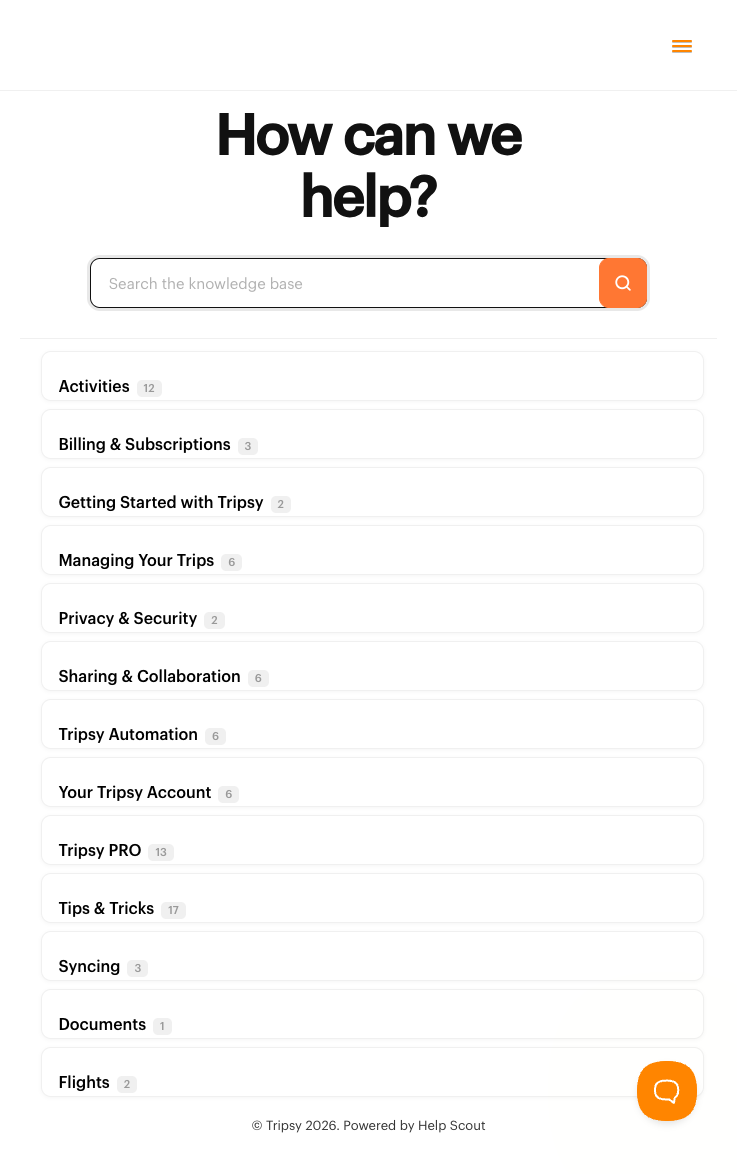
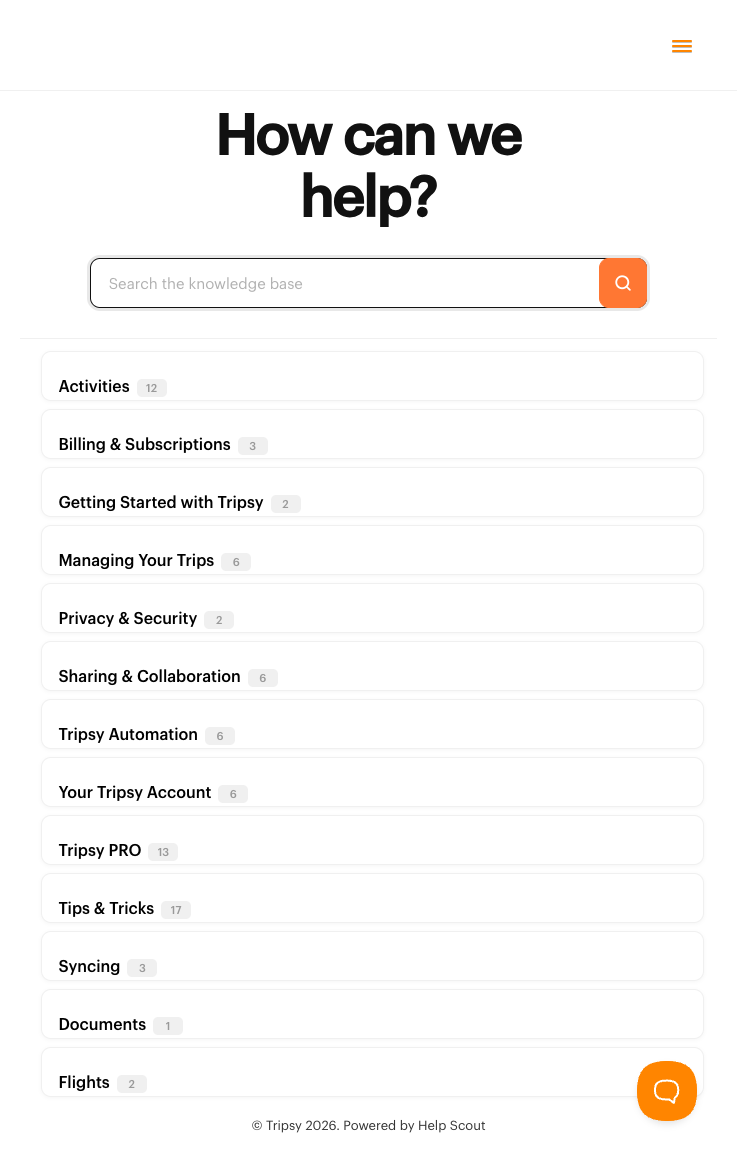
Center category count badges

diff --git a/custom.css b/custom.css
@@ -1711,9 +1711,12 @@ a.category.category:hover {
   flex-shrink: 0 !important;
   font-size: 11px !important;
   font-weight: 500 !important;
+  height: 18px !important;
   justify-content: center !important;
-  line-height: 1 !important;
-  padding: 3px 7px !important;
+  line-height: 18px !important;
+  min-width: 18px !important;
+  padding: 0 6px !important;
+  transform: translateY(-1px) !important;
   white-space: nowrap !important;
 }
 